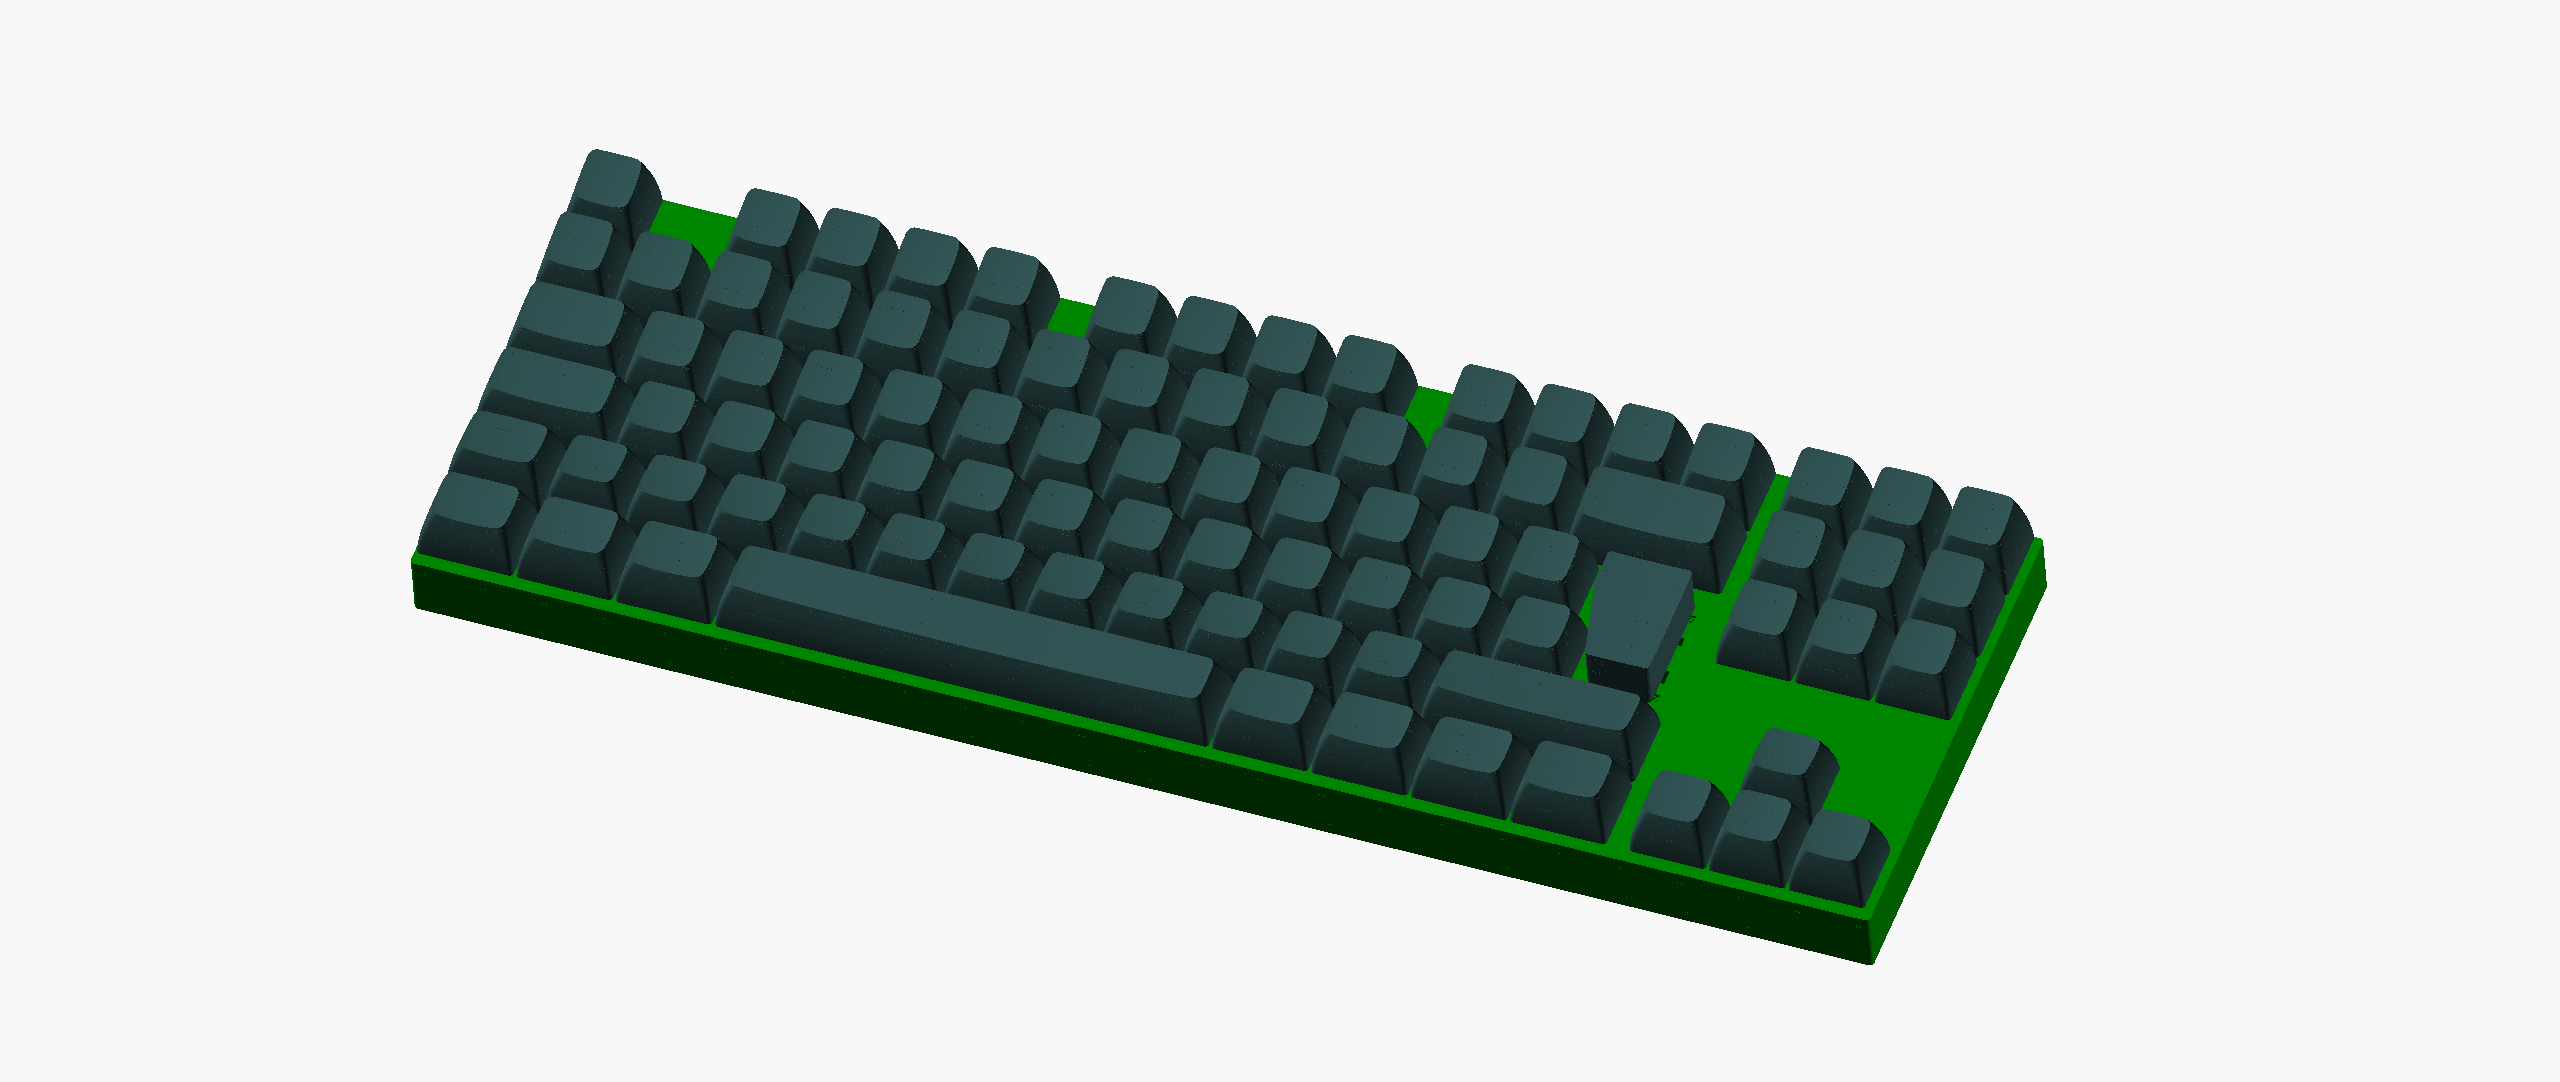
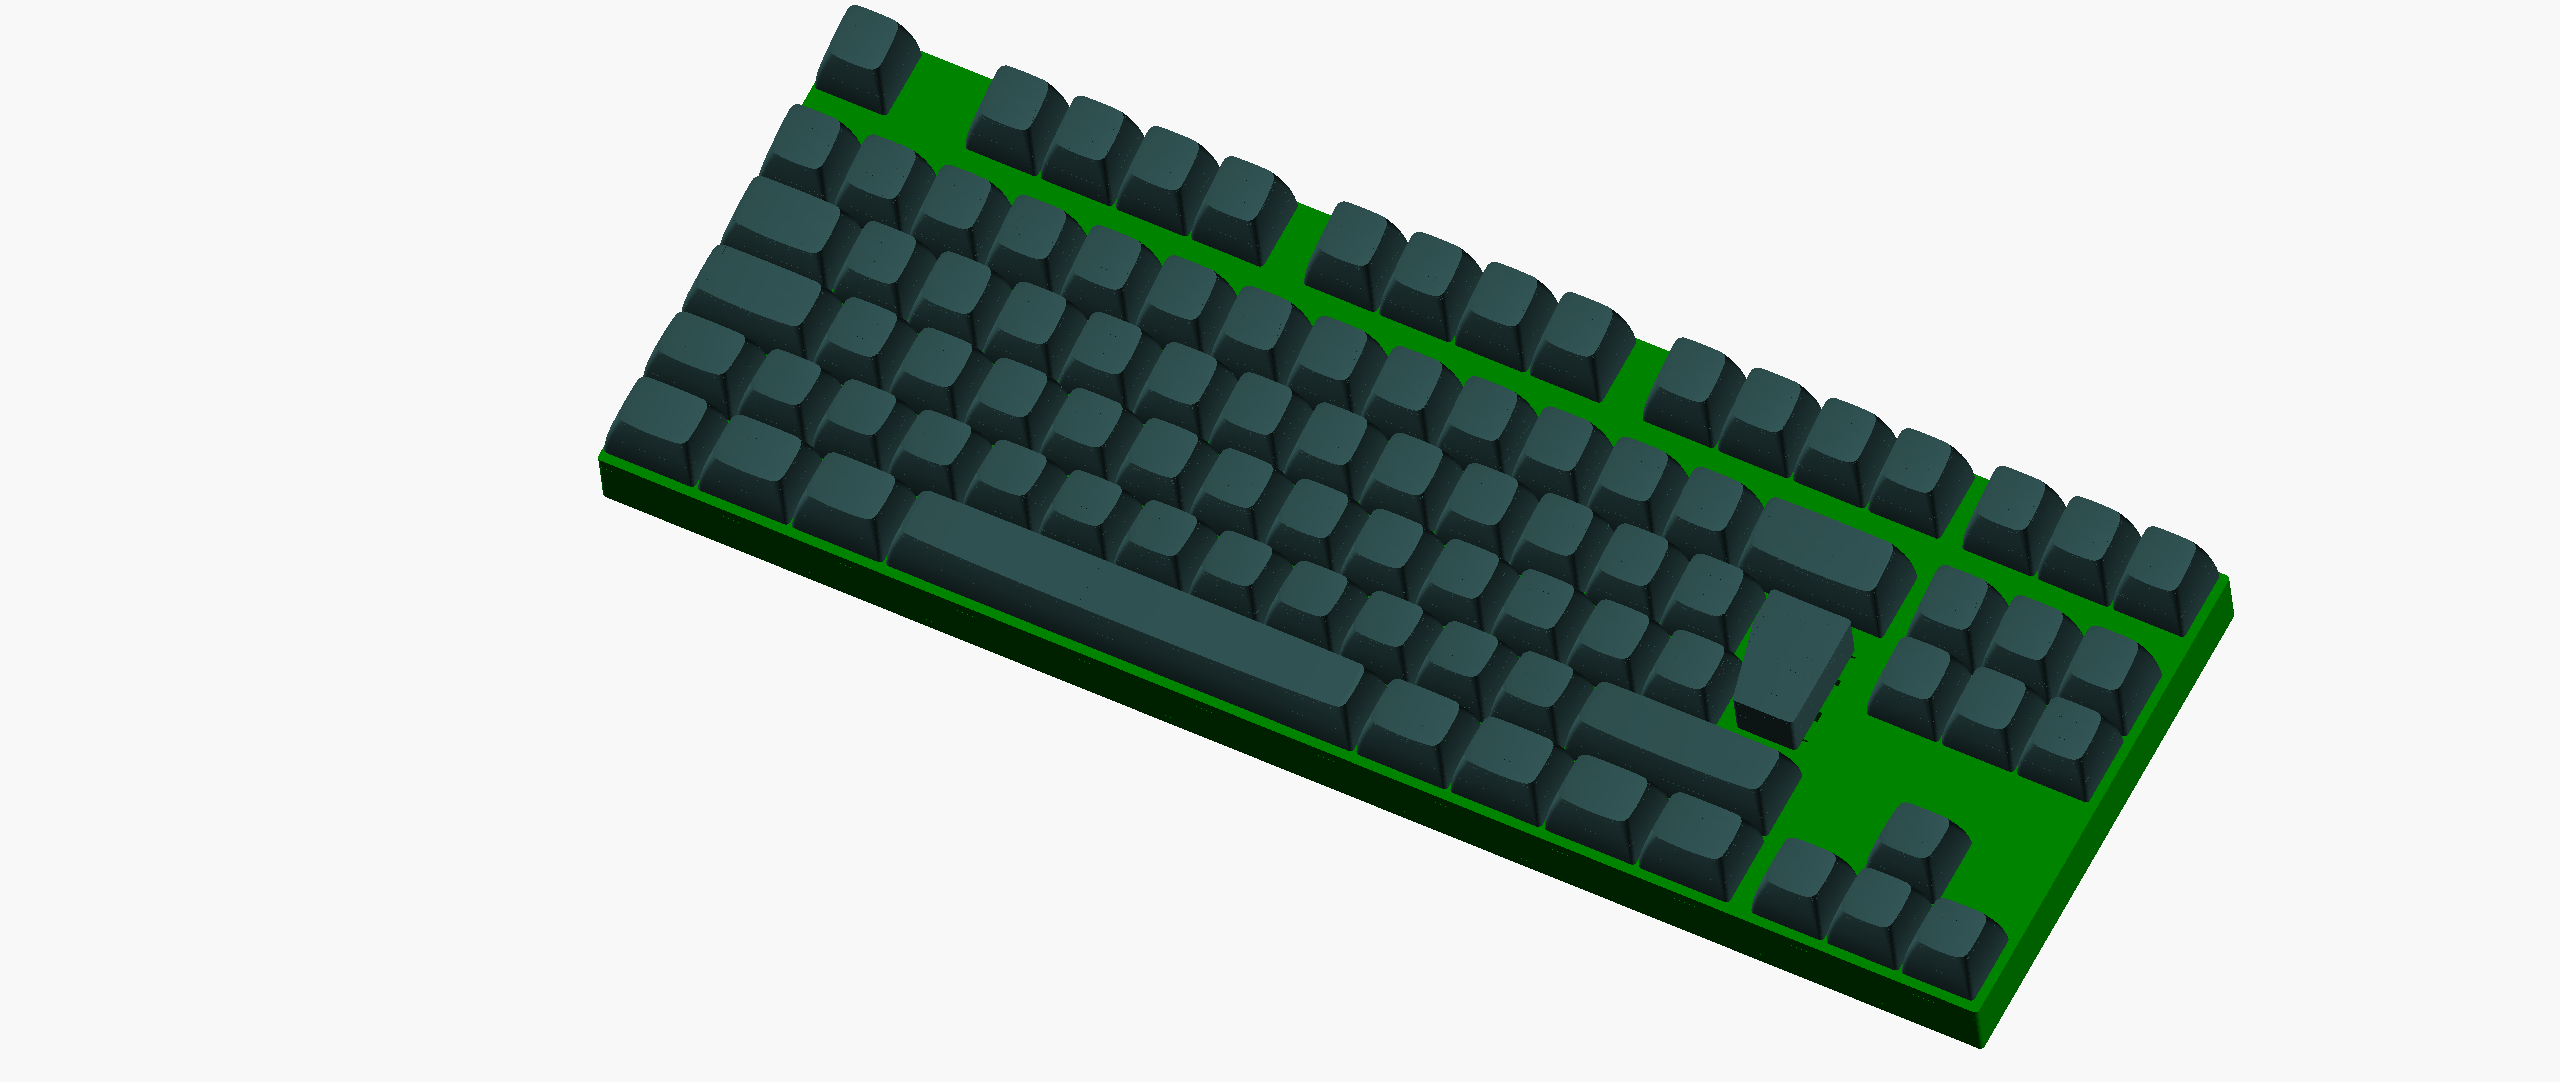
README.md und andimotoTKLiso.png aktualisiert

Changed region(s): [[0.1562, 0.0, 0.875, 0.976]]

diff --git a/README.md b/README.md
@@ -11,6 +11,7 @@
 - start customizing your layout (place switch holes and set colors of your keycaps if you want)
 - set screw holes where needed or add even more of them (think about the risers on the bottom)
 - set usb and pcb values
+- set fRowSeparator to move F-Row up if needed
 - depending on your printbed size, set where to cut the keyboard case
 - (optional) print critical parts of the case like space bar, parts with other stabilizers or usb and pcb area to test everything fits
 - generate all necessary model files you want to print by uncomment the proper module call or run the build.sh script
@@ -83,6 +84,8 @@ After your layout is set you can adjust and modify the array 'screwHoleArray' to
 It is also possible to modify the pcb dimensions with the 'pcb'-values. Available sizes for Arduino Pro Micro and Teensy2 are included. Just change the comments to select the right one. I recommend to measure your pcb anyway and check dimensions. You can also move the whole pcb and cutout for usb connection in X direction by setting 'pcbShift' with a positive or negative value.
 
 Generating risers for the keyboard can be selected with true/false and adjusted in width and length/depth. The colors of the risers and of cource the case and lid can be set after the screw hole array, at the end of the layout file.
+
+With the variable 'fRowSeparator' you can select if the F-Row or the most upper Row (key[0][1]==0) will be moved upwards by a half key unit. See example 'andimotoTKL_iso'. When selecting 'true' some modules will call 'getExtraFRow()' function to get the value to move F-Row upwards.
 
 ## Build STL Files
 I added the script 'build.sh' for building all necessary parts of a keyboard at once. It reads 'conf/module-calls.conf' and places each call at the end of the keyboard file to render it and safe it in the stl directory. The output is saved in stl directory under the keyboard name.
@@ -172,7 +175,7 @@ __Note:__ Parts can be bougth from ebay, amazon, etc. There is great choise, but
 - check if your printer prints right-angled. I had issues with my Prusa Mini printing exact squared parts. More info [here](https://forum.prusaprinters.org/forum/how-do-i-print-this-printing-help/how-to-fix-bending-of-a-box/).
 
 ## todo
-- create selectable space (in y direction) between function row and next rows
+- create selectable space (in y direction) between function row and next rows (DONE: fRowSeparator)
 - provide pcb cutout for teensy 2.0 (DONE)
 - add delta variable for usb cutout and pcbholder to move it. (DONE)
 - avoid case stabilizer for iso enter and numpad enter (optional)
